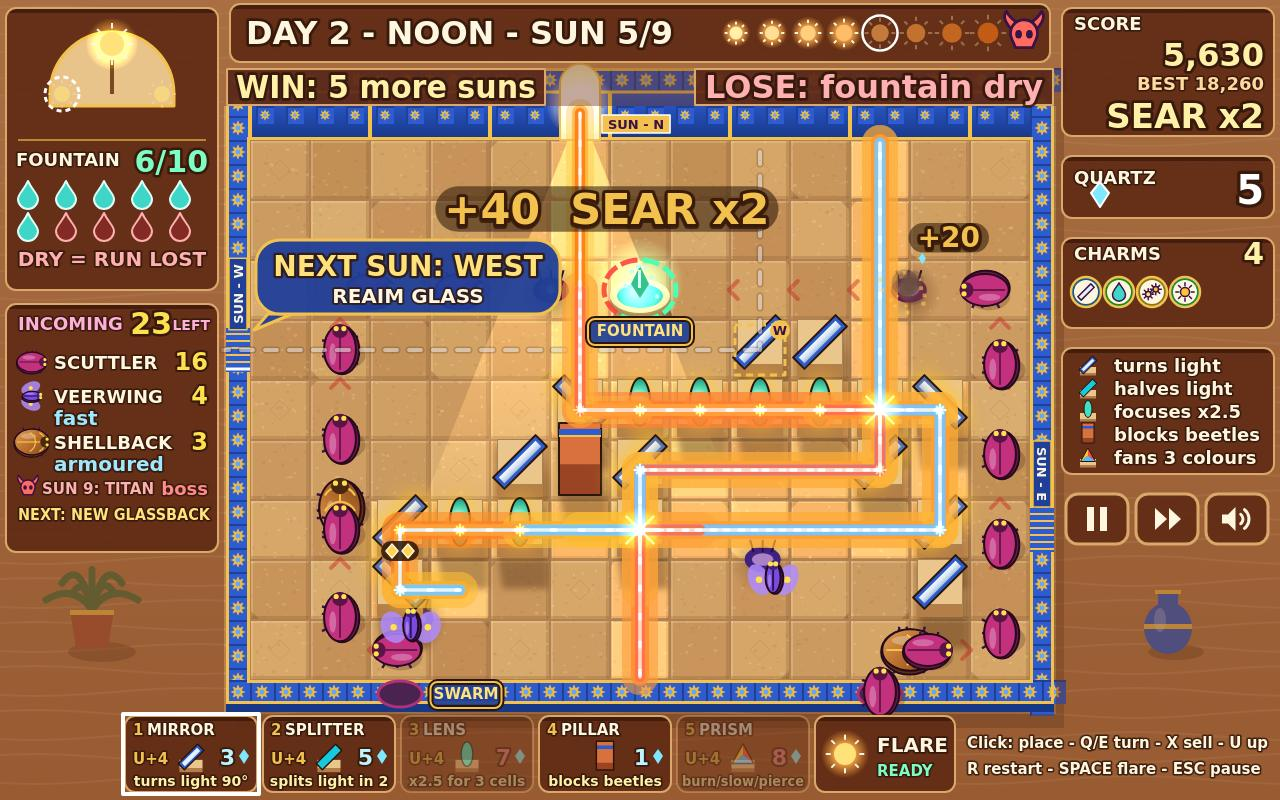
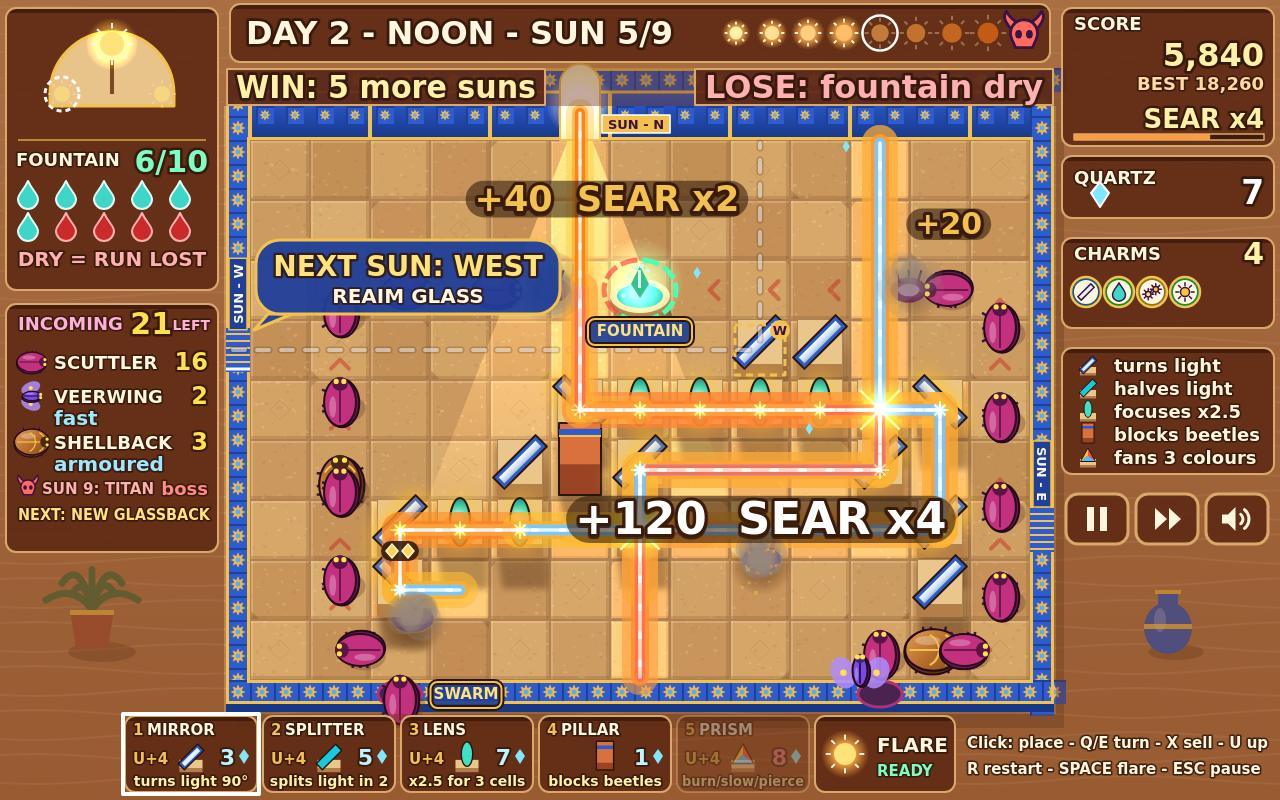
Hit feedback: ash puff and ember ring on each kill, bigger stacked SEAR numbers, a flashing SEAR streak meter; cover shows +120 SEAR x4, +40 SEAR x2, +20

diff --git a/game/src/render/hud.js b/game/src/render/hud.js
@@ -5,7 +5,7 @@
 import { BEAM, ENEMIES, NAMES, PIECES, PIECE_ORDER, UPGRADES, WAVE_COUNT, enemyRuleTag } from '../config.js';
 import { boonById } from '../draft.js';
 import { beamModsFor } from '../beams.js';
-import { chainMultiplier } from '../combat.js';
+import { chainMultiplier, chainWindow } from '../combat.js';
 import { enemiesRemaining, liftRefund, pieceCost, pieceUnlocked, upgradeCost } from '../sim.js';
 import { titanStatus, winLoseParts } from '../announce.js';
 import { sunApertureFor } from '../sun.js';
@@ -431,7 +431,7 @@ function drawTooltip(ctx, run, ui, y0) {
 /** Right column, 20 px apart: SCORE with BEST, QUARTZ, CHARMS, the GLASS legend (the buttons sit under it). */
 function drawRightPanel(ctx, run, ui) {
   const x0 = RIGHT_X;
-  panel(ctx, x0, 8, PANEL_W, 128);
+  panel(ctx, x0, 8, PANEL_W, 138);
   text(ctx, 'SCORE', x0 + 12, 30, 18, INK, 'left', 900);
   text(ctx, run.score.toLocaleString('en-US'), x0 + PANEL_W - 10, 66, 32, '#FFF2A8', 'right', 900);
   // BEST from the save (a difficulty never finished says so: no "BEST 0").
@@ -454,6 +454,18 @@ function drawComboLine(ctx, run, x0, y) {
   const active = run.chain.count >= 2;
   const pop = Math.max(0, 1 - (run.time - run.feedback.searAt) / 0.25);
   text(ctx, `${NAMES.combo} x${active ? mult : 1}`, x0 + PANEL_W - 10, y + 8, active ? 26 + pop * 8 : 20, active ? '#FFF2A8' : 'rgba(255,246,223,0.7)', 'right', 900);
+  // The streak meter: how much of the SEAR window is left before the combo drops; it flashes on each kill.
+  const frac = run.chain.count > 0 ? Math.max(0, Math.min(1, run.chain.timer / chainWindow(run))) : 0;
+  const mx = x0 + 12;
+  const mw = PANEL_W - 22;
+  const my = y + 14;
+  ctx.fillStyle = 'rgba(0,0,0,0.4)';
+  ctx.fillRect(mx, my, mw, 6);
+  ctx.fillStyle = pop > 0 ? '#FFFFFF' : active ? '#FF9A3D' : 'rgba(255,154,61,0.5)';
+  ctx.fillRect(mx, my, mw * frac, 6);
+  ctx.strokeStyle = FRAME.rim;
+  ctx.lineWidth = 1.5;
+  ctx.strokeRect(mx, my, mw, 6);
 }
 
 /** The play HUD's panels and text rows (props must keep clear of these). */

diff --git a/game/src/render/fx.js b/game/src/render/fx.js
@@ -216,7 +216,9 @@ export function fxFromEvent(fx, ev, run = null) {
   if (ev.type === 'kill') {
     const x = toScreenX(ev.x);
     const y = toScreenY(ev.y);
-    burst(fx, x, y, 10, 'smoke', 'rgba(110,80,70,', 40, 0.9, 9);
+    // An ash puff where it fell: pale grey ash rising, a ring of ember flecks.
+    burst(fx, x, y, 14, 'smoke', 'rgba(150,135,125,', 46, 1.1, 12);
+    burst(fx, x, y, 8, 'spark', '#FF8A2E', 120, 0.5, 3);
     burst(fx, x, y, 14, 'spark', '#FFD34D', 160, 0.45, 3);
     fx.decals.push({ x, y, life: DECAL_LIFE, max: DECAL_LIFE, size: ev.boss ? 40 : 18, enemy: ev.enemy });
     for (let k = 0; k < ev.quartz; k++) {
@@ -227,7 +229,7 @@ export function fxFromEvent(fx, ev, run = null) {
     // else where it died; a plain kill only beside a live beam hit.
     const combo = ev.mult >= 2;
     const hit = beamHitAnchor(ev, run) ?? (combo ? { x, y } : null);
-    const placed = hit && placeFloater(fx, { x: hit.x, y: hit.y - 18, ax: hit.x, ay: hit.y, kind: 'kill', text: label, life: FLOATER_LIFE, max: FLOATER_LIFE, color: ev.mult >= 4 ? '#FFFFFF' : '#F2C14E', size: 28 + (Math.min(ev.mult, 5) - 1) * 4 }, run, combo);
+    const placed = hit && placeFloater(fx, { x: hit.x, y: hit.y - 18, ax: hit.x, ay: hit.y, kind: 'kill', text: label, life: FLOATER_LIFE, max: FLOATER_LIFE, color: ev.mult >= 4 ? '#FFFFFF' : '#F2C14E', size: 30 + (Math.min(ev.mult, 5) - 1) * 5 }, run, combo);
     if (combo) {
       fx.searKills = (fx.searKills ?? 0) + 1;
       if (placed) fx.searFloaters = (fx.searFloaters ?? 0) + 1;

diff --git a/NOTES.md b/NOTES.md
@@ -500,6 +500,12 @@
   long at morning/evening, 0.85x at noon, still thrown away from the live sun. The floor was already
   darkened in the earlier lighting pass; cover mean luminance stays 0.47.
 
+- Item 3, hit feedback: a kill leaves a pale ash puff (14 smoke particles, 1.1 s) and a ring of ember
+  flecks; floating numbers are bigger (30 px + 5 per SEAR step, was 28 + 4); a SEAR streak meter under the
+  SEAR line shows how much of the combo window is left and flashes white on each kill. Searing embers were
+  already in. Cover tick now 4484: three numbers (+120 SEAR x4, +40 SEAR x2, +20), ash puffs, SEAR x4,
+  quartz 7 (4 of 5 cards lit, prism greyed), run still wins.
+
 ## Next
 - READY FOR A/B (01:00 UTC): bold beams + the three cues on top of 61673e1 (FEATS, GLASS legend,
   INCOMING tags, HUD buttons, SUNSTONE chip, title rules table kept). Verified on the final state:
